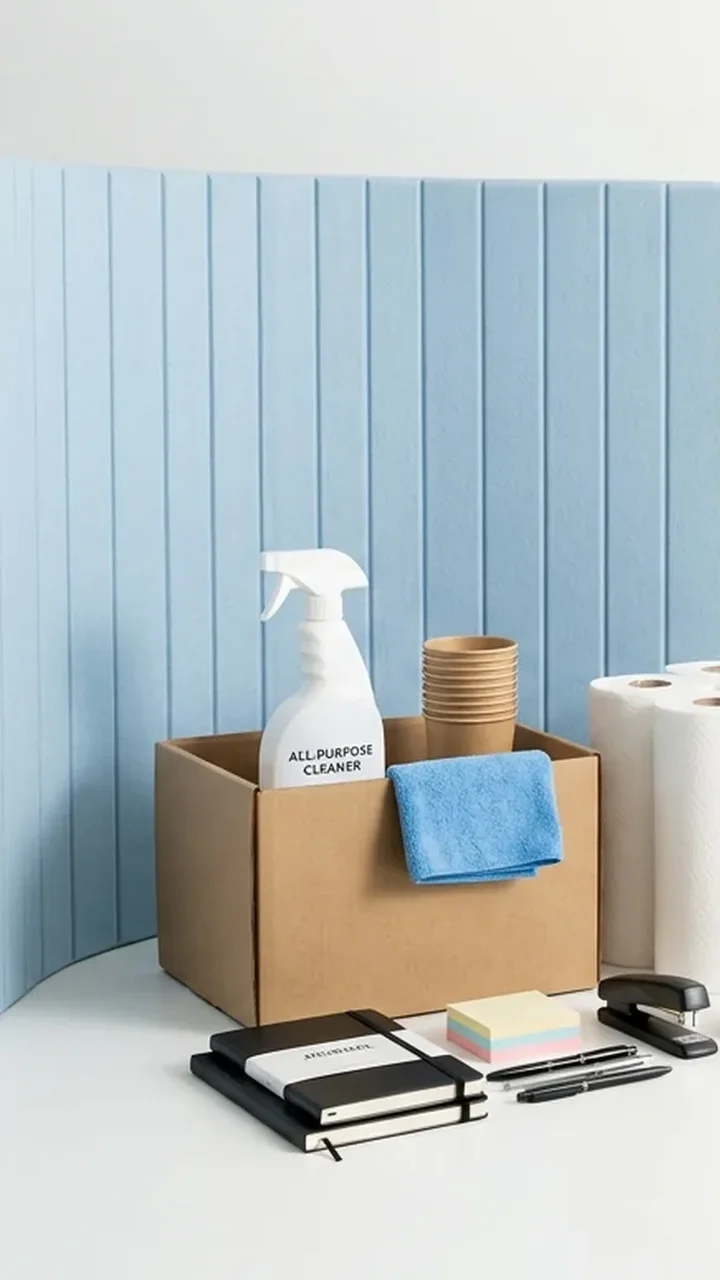
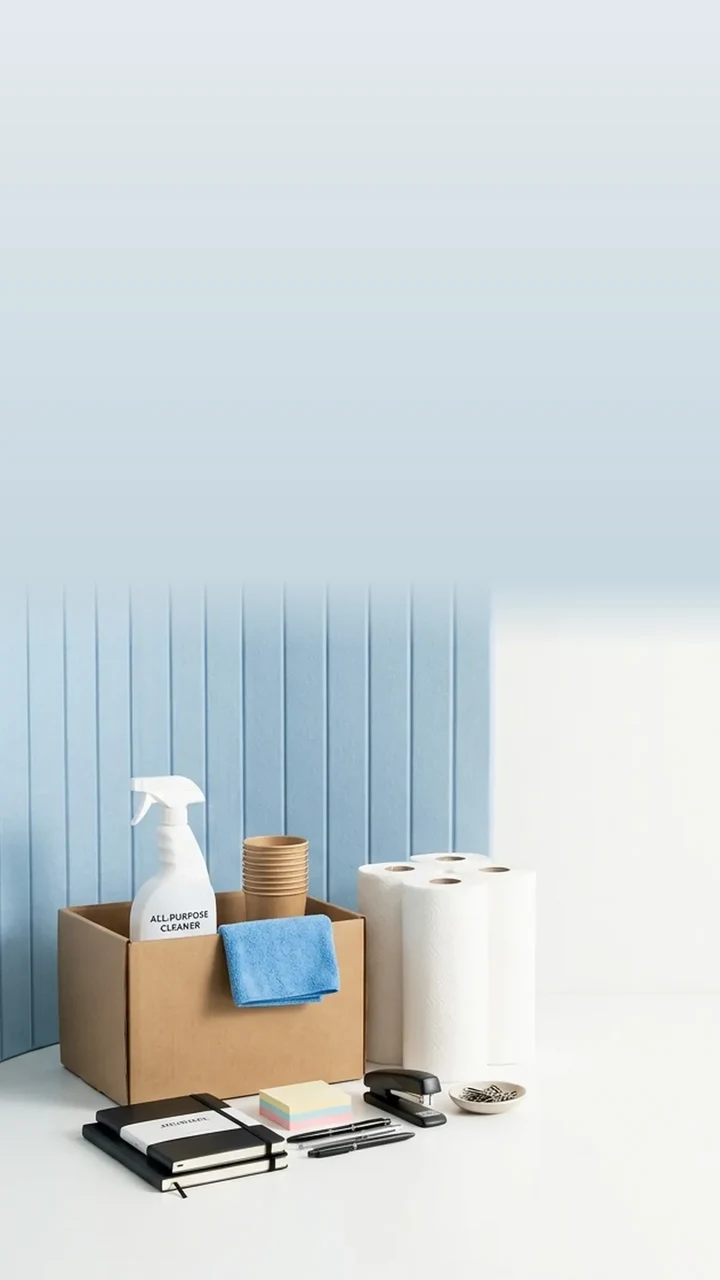
Mobile UI: Clean quiet studio background extending smoothly to the top without clutter

diff --git a/index.html b/index.html
@@ -5,8 +5,8 @@
     <meta name="viewport" content="width=device-width, initial-scale=1.0">
     
     <!-- Direct Hero Image Preload (High Priority LCP) -->
-    <link rel="preload" as="image" href="assets/studio_3d_depth_mobile.webp?v=17876775" media="(max-width: 600px)" fetchpriority="high">
-    <link rel="preload" as="image" href="assets/studio_3d_depth_bg.webp?v=17876775" media="(min-width: 601px)" fetchpriority="high">
+    <link rel="preload" as="image" href="assets/studio_3d_depth_mobile.webp?v=17876778" media="(max-width: 600px)" fetchpriority="high">
+    <link rel="preload" as="image" href="assets/studio_3d_depth_bg.webp?v=17876778" media="(min-width: 601px)" fetchpriority="high">
 
     <title>שיווקים — למוסד, לבית, למשרד ולצימרים</title>
     
@@ -2017,7 +2017,7 @@
             }
 
             .fixed-bg-layer {
-                background: #dce7ed url('assets/studio_3d_depth_mobile.webp?v=17876775') no-repeat center top !important;
+                background: #dce7ed url('assets/studio_3d_depth_mobile.webp?v=17876778') no-repeat center top !important;
                 background-size: cover !important;
                 background-attachment: fixed !important;
                 will-change: transform !important;
@@ -4324,8 +4324,8 @@
         <!-- LCP HERO BACKGROUND LAYER WITH HIGH PRIORITY EAGER IMAGE -->
     <div class="fixed-bg-layer" id="fixed-bg-layer">
         <picture>
-            <source media="(max-width: 600px)" srcset="assets/studio_3d_depth_mobile.webp?v=17876775" type="image/webp">
-            <img src="assets/studio_3d_depth_bg.webp?v=17876775" alt="שיווקים אספקה מקצועית" width="1920" height="1080" fetchpriority="high" loading="eager" decoding="sync" class="fixed-bg-img" aria-hidden="true">
+            <source media="(max-width: 600px)" srcset="assets/studio_3d_depth_mobile.webp?v=17876778" type="image/webp">
+            <img src="assets/studio_3d_depth_bg.webp?v=17876778" alt="שיווקים אספקה מקצועית" width="1920" height="1080" fetchpriority="high" loading="eager" decoding="sync" class="fixed-bg-img" aria-hidden="true">
         </picture>
     </div>
 
